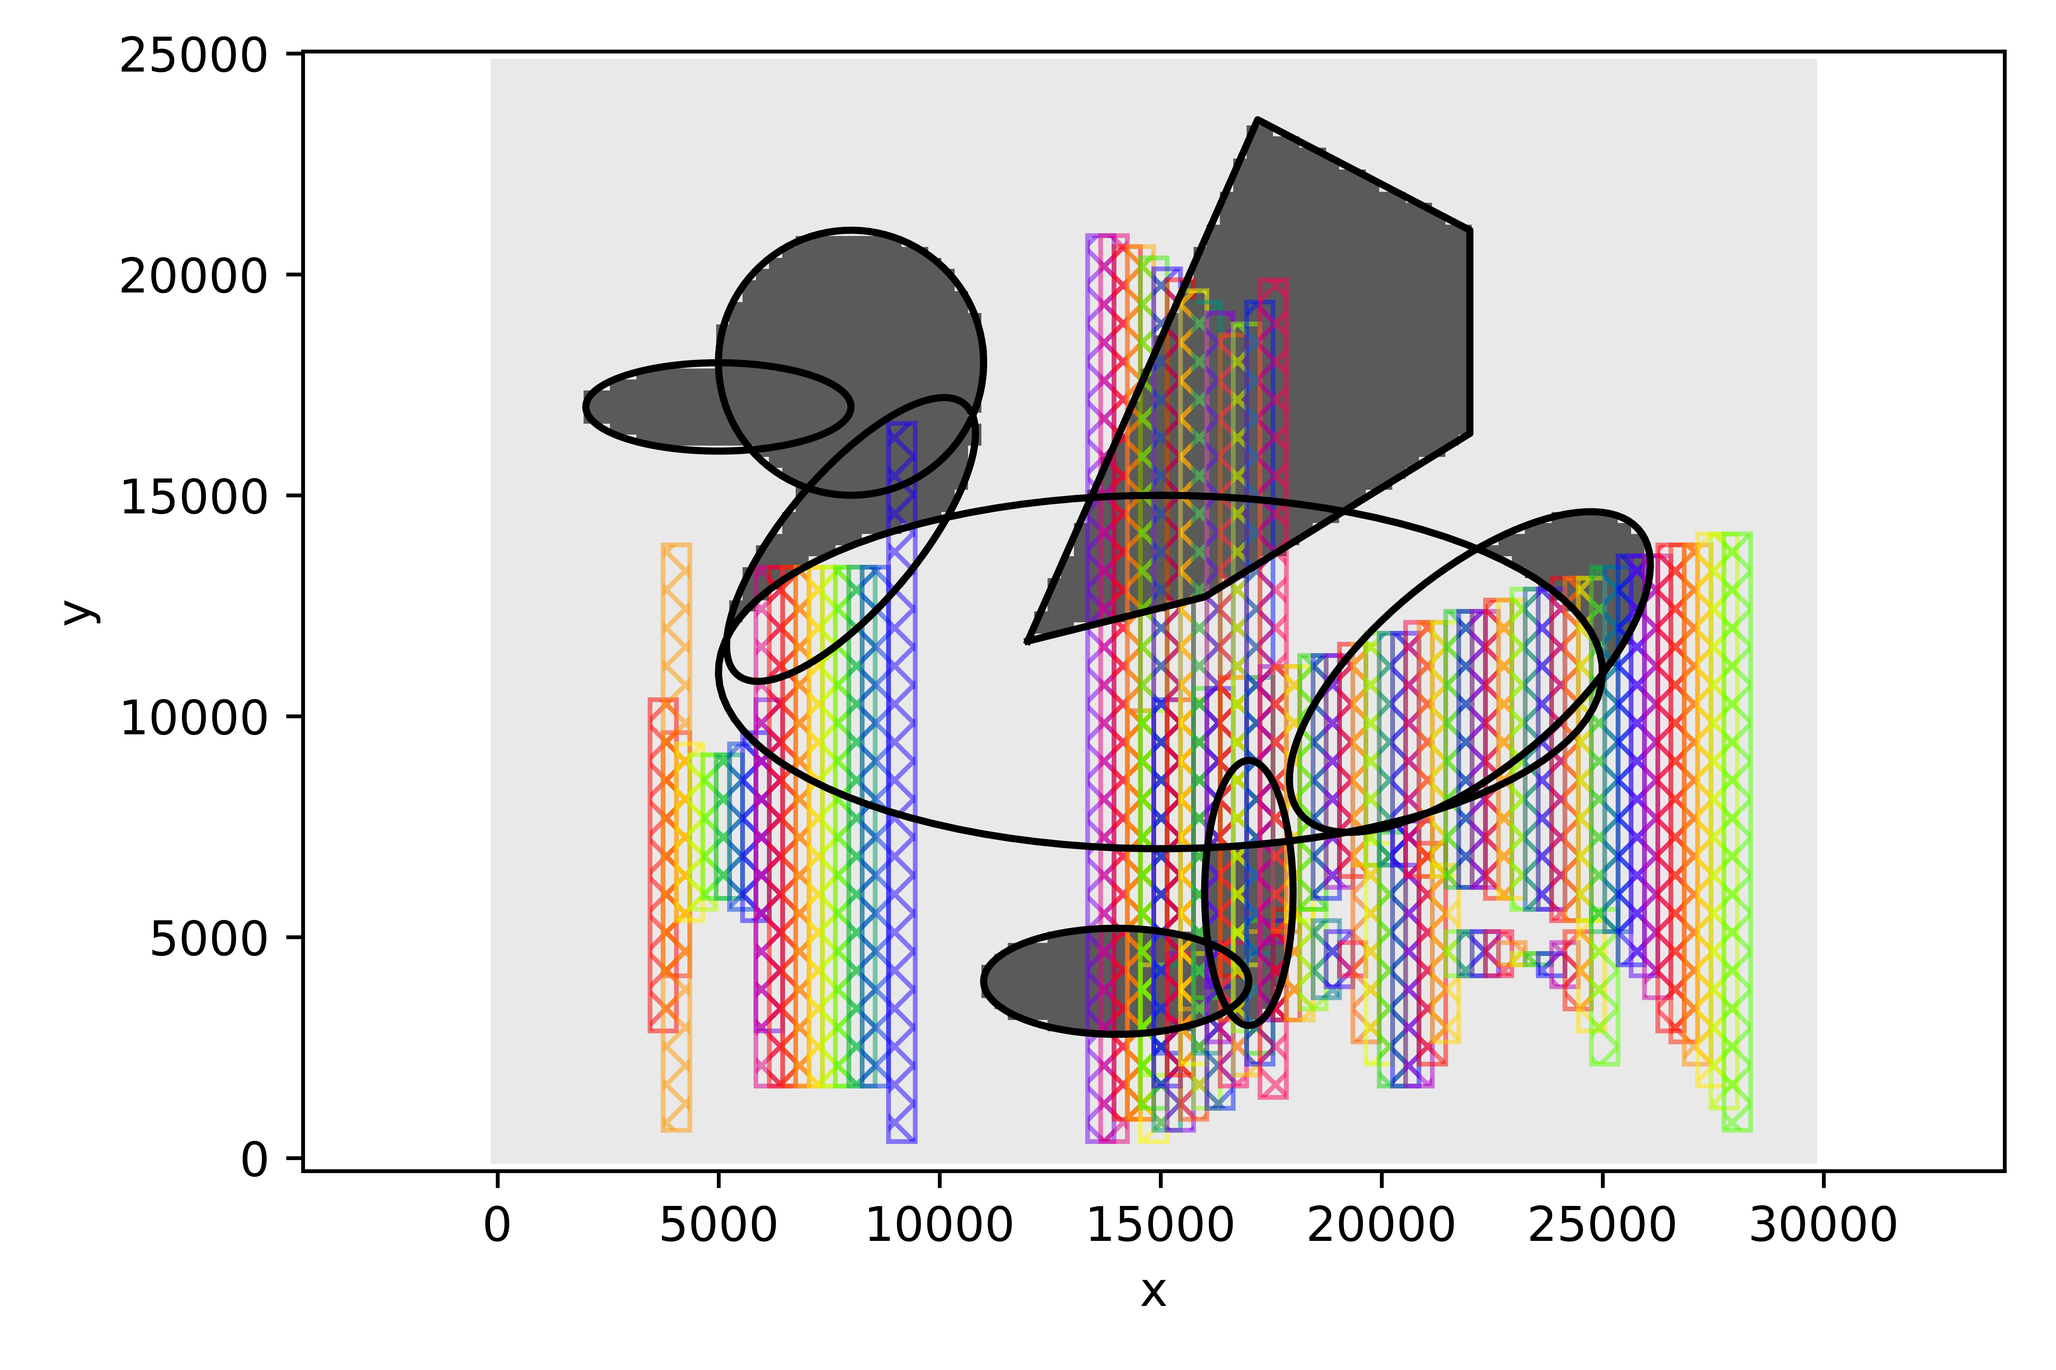
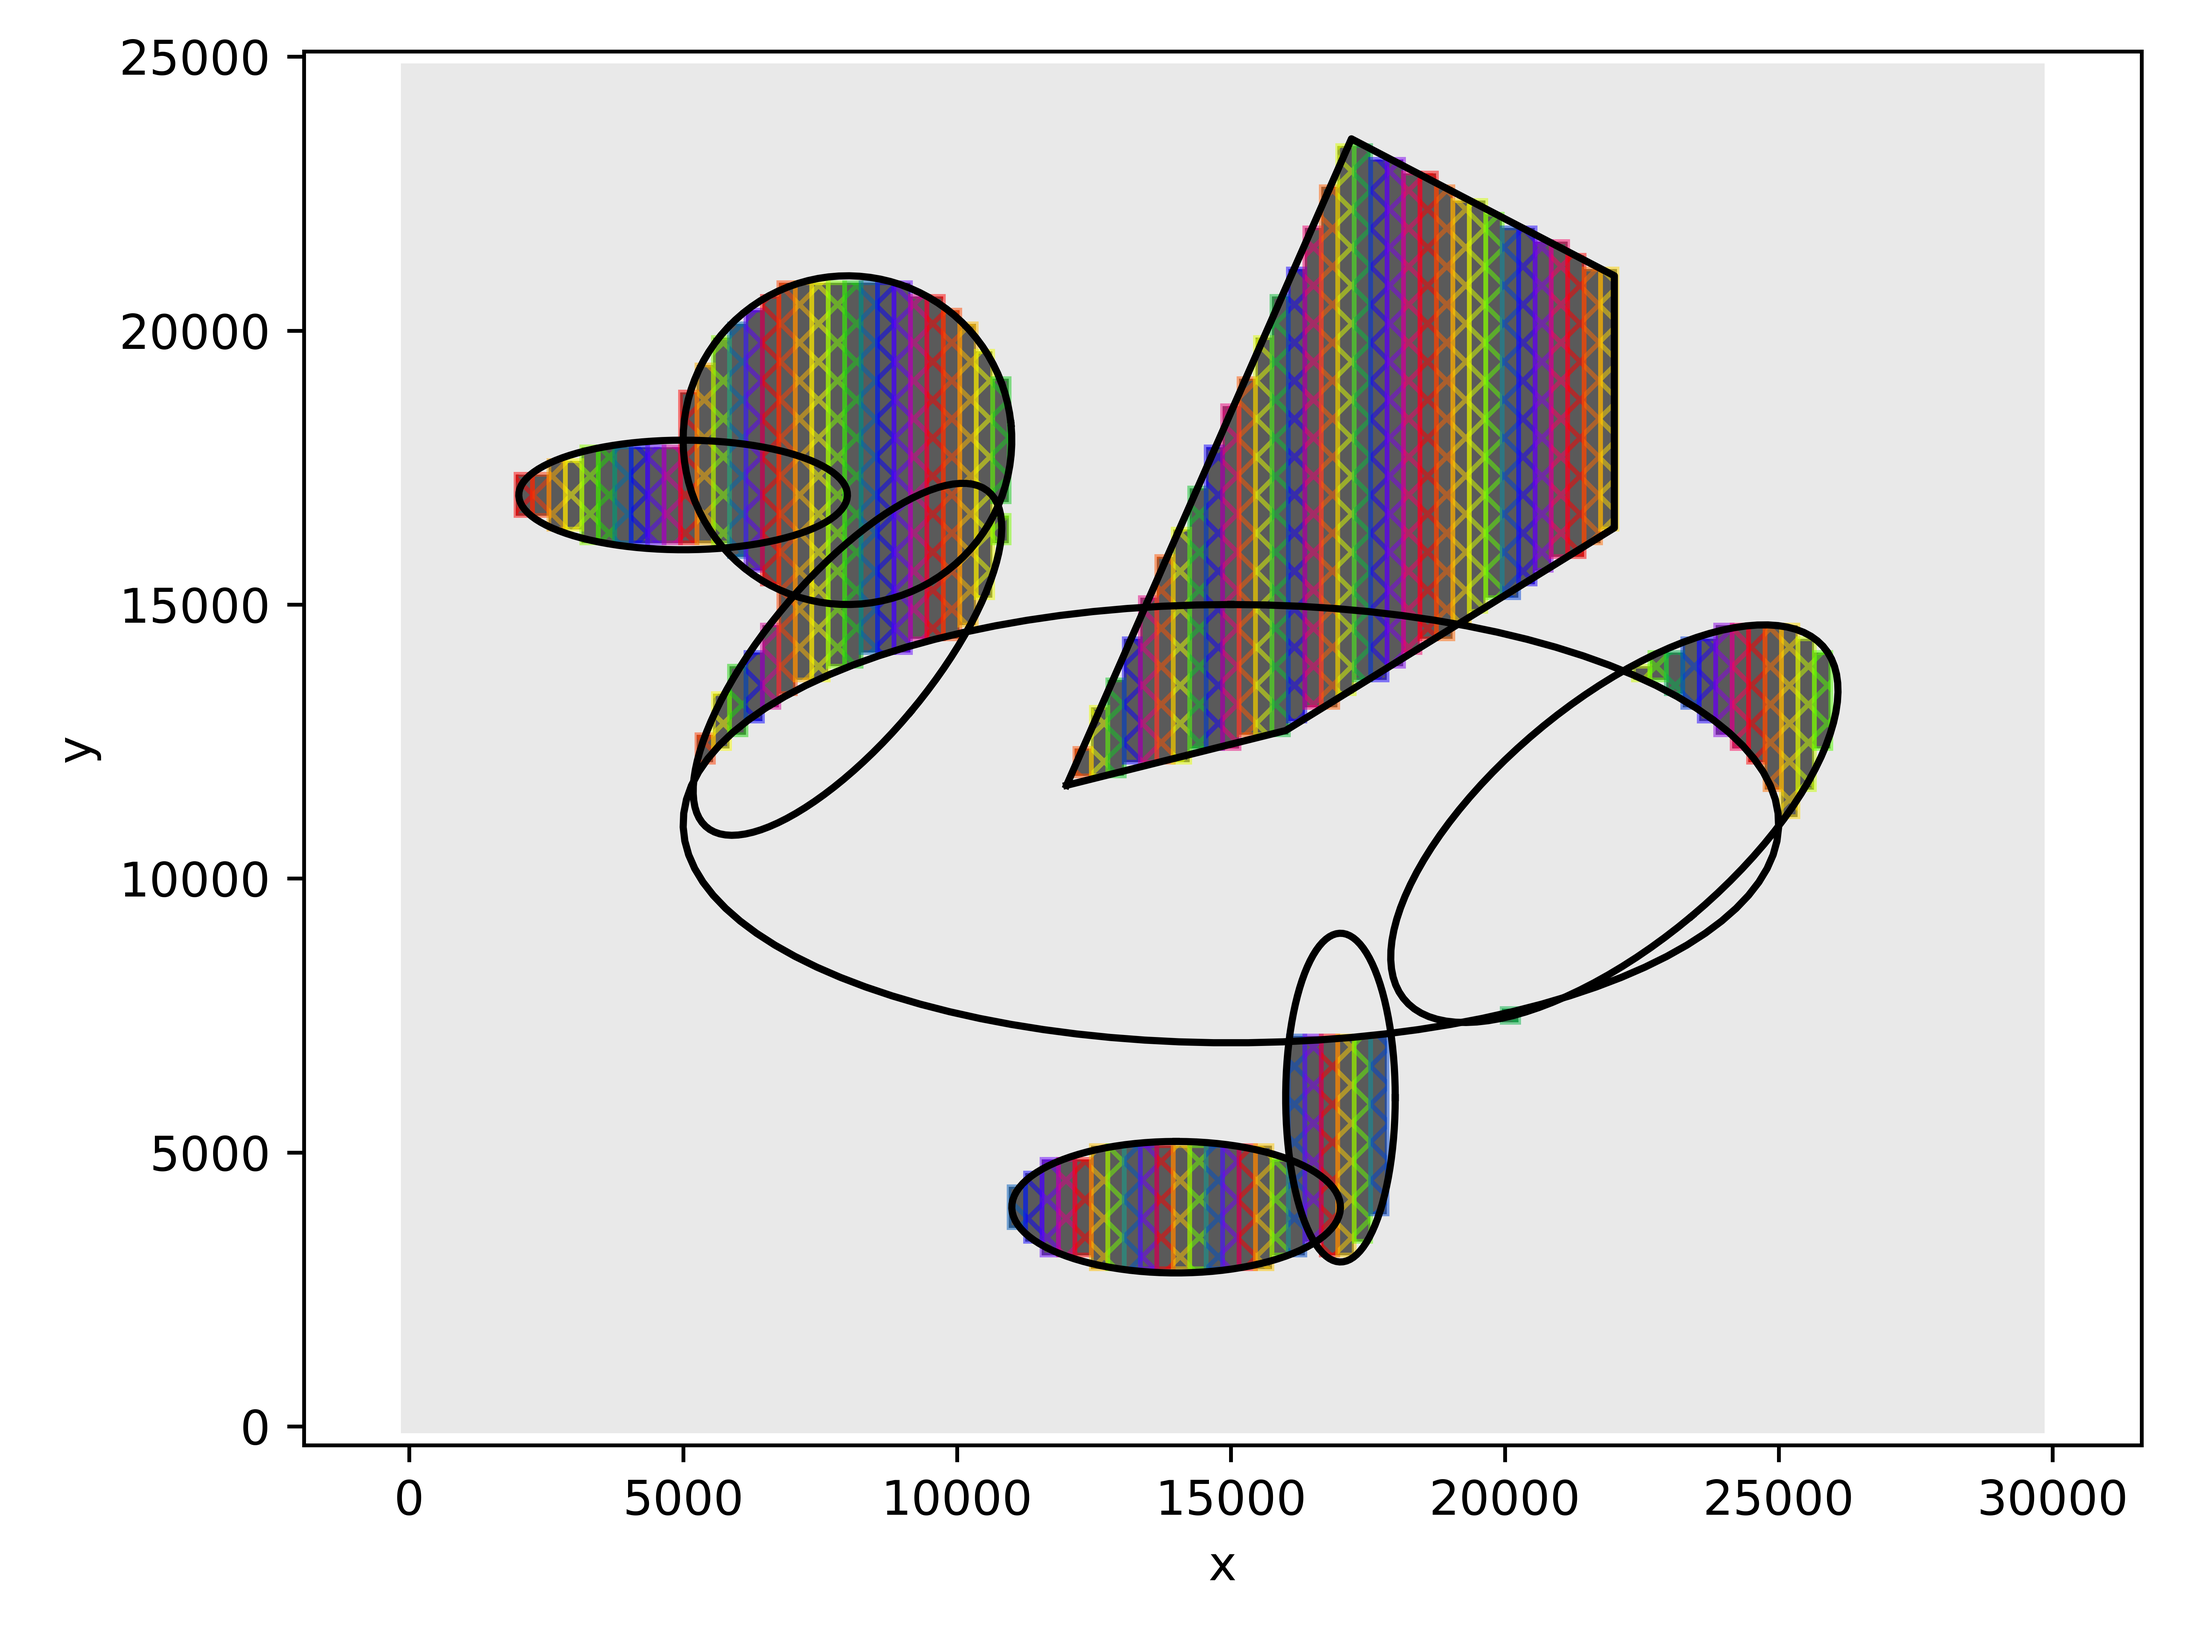
rectangulie_oli bug free
asd

Changed region(s): [[0.0623, 0.0, 0.9973, 0.9375], [0.1558, 0.8438, 0.2493, 0.9062], [0.0312, 0.4375, 0.0623, 0.4688]]

diff --git a/rectangulize.py b/rectangulize.py
@@ -104,8 +104,8 @@ def find_object_level_interval(line,interval = [],index = 0):
         index = first+end+index
         return find_object_level_interval(line[first+end:],interval = interval,index = index)
         
-def rectangulize_oli(pattern,debug = False,plot = False):
-
+def rectangulize_oli(pattern):
+    pattern = pattern.T
     ibr = []
 
     for k in range(pattern.shape[0]):
@@ -116,7 +116,9 @@ def rectangulize_oli(pattern,debug = False,plot = False):
             # intervals = []
             
             for i in range(oli.shape[0]):
-                ibr.append((k, oli[i][0], k+1, oli[i][1]))
+                # ibr.append((k,oli[i][0],k+1,oli[i][1]))
+                ibr.append((k,oli[i][0],k,oli[i][1]+oli[i][0]-1))
+
     
             # ibr.append(intervals)
   

diff --git a/generate_pattern.py b/generate_pattern.py
@@ -106,6 +106,12 @@ class Pattern:
         
     def rectangulize(self):
         rects = self.rectangulize_func(self.pattern)
+        
+        # fig,ax = plt.subplots(dpi = 300)
+        # ax.pcolormesh(np.arange(self.pattern.shape[1]),np.arange(self.pattern.shape[0]),self.pattern)
+        
+        # np.savetxt("ente.txt",self.pattern)
+        
         translated_rects = []
         for rect in rects:
             translated_rects.append(self.translate_coords(rect))
